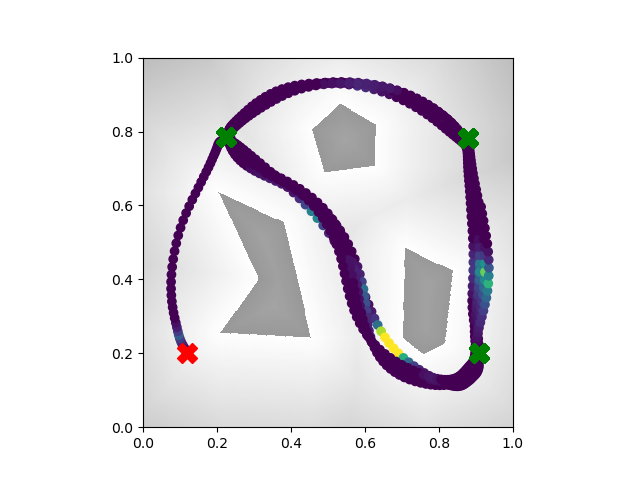
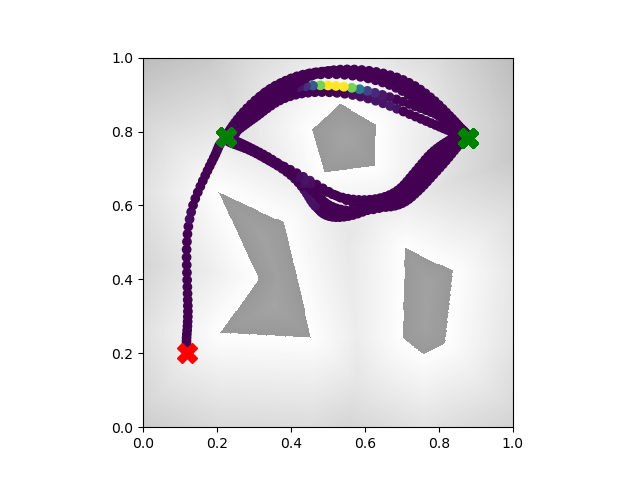
串行final

Changed region(s): [[0.25, 0.125, 0.7812, 0.8125]]

diff --git a/storm_kit/mpc/rollout/simple_reacher.py b/storm_kit/mpc/rollout/simple_reacher.py
@@ -196,8 +196,8 @@ class SimpleReacher(object):
         state_batch = state_dict['state_seq']
         #print(action_batch)
         # goal_state changed to 
-        # goal_state = self.goal_state.unsqueeze(0)
-        goal_state = mean_traj_greedy[-1,:self.n_dofs]# 可适当调节  @测试！ 20 horizon [15 20]区间测试 增加路径弹性 需要根据测试结果讨论清楚 
+        goal_state = self.goal_state.unsqueeze(0)
+        # goal_state = mean_traj_greedy[-1,:self.n_dofs]# 可适当调节  @测试！ 20 horizon [15 20]区间测试 增加路径弹性 需要根据测试结果讨论清楚 
         # * torch.cat((torch.zeros(10),torch.ones(10))).to(**self.tensor_args)
         # goal_state = mean_traj_greedy[ :,:self.n_dofs].unsqueeze(0)
         
@@ -212,7 +212,7 @@ class SimpleReacher(object):
         cost += vel_cost
         
         coll_cost = self.image_move_collision_cost.forward(state_batch[:,:,:2*self.n_dofs])
-        cost += coll_cost * 2.0
+        cost += coll_cost * 5.0
 
         bound_contraint= self.bound_cost.forward(state_batch[:,:,:self.n_dofs])
         cost += bound_contraint

diff --git a/storm_kit/mpc/control/control_base.py b/storm_kit/mpc/control/control_base.py
@@ -262,12 +262,9 @@ class Controller(ABC):
                     """
                     sensitive_trajectory = self.generate_sensitive_rollouts(state)
 
-                    self._update_sensitive_distribution(sensitive_trajectory) 
+                    self._update_distribution(sensitive_trajectory) 
                     self.mean_traj_sensi = self.get_mean_trajectory(state)
 
-                    # sensitive_trajectory = self.generate_sensitive_rollouts(state)
-                    # self._update_sensitive_distribution(sensitive_trajectory) 
-                    # self.mean_traj_sensi = self.get_mean_trajectory(state)
                     info['rollout_time'] += trajectory['rollout_time']
                     # check if converged
                     if self.check_convergence():

diff --git a/storm_kit/geom/sdf/world.py b/storm_kit/geom/sdf/world.py
@@ -672,12 +672,12 @@ class WorldMoveableImageCollision(WorldCollision):
         _,im = cv2.threshold(im,10,255,cv2.THRESH_BINARY)
         self.im = im
         shift = 3
-        self.movelist = np.float32([
-            [[1, 0, -shift], [0, 1, 0]],
-            [[1, 0,  shift], [0, 1, 0]]])
         # self.movelist = np.float32([
-        #     [[1, 0, 0], [0, 1, -shift]],
-        #     [[1, 0,  0], [0, 1, shift]]])
+        #     [[1, 0, -shift], [0, 1, 0]],
+        #     [[1, 0,  shift], [0, 1, 0]]])
+        self.movelist = np.float32([
+            [[1, 0, 0], [0, 1, -shift]],
+            [[1, 0,  0], [0, 1, shift]]])
         
         self.step_move = 20
         self.move_ind = 10

diff --git a/storm_kit/mpc/control/mppi.py b/storm_kit/mpc/control/mppi.py
@@ -251,10 +251,9 @@ class MPPI(OLGaussianMPC):
                 cov_update = torch.matmul(weighted_delta, weighted_delta.T)
             else:
                 raise ValueError('Unidentified covariance type in update_distribution')
-            if (self.cov_action.sum() < cov_update.sum()).item():
-                
-                self.cov_action = (1.0 - self.step_size_cov) * self.cov_action +\
-                    self.step_size_cov * cov_update
+            # if (self.cov_action.sum() < cov_update.sum()).item():
+            self.cov_action = (1.0 - self.step_size_cov) * self.cov_action +\
+                self.step_size_cov * cov_update
 
 
     def _shift(self, shift_steps):

diff --git a/examples/simple_reacher_class.py b/examples/simple_reacher_class.py
@@ -60,7 +60,7 @@ class holonomic_robot(Plotter):
         super().__init__()
 
         self.goal_list = [
-                [0.9098484848484849, 0.2006060606060608],
+                # [0.9098484848484849, 0.2006060606060608],
                 [0.8787878787878789, 0.7824675324675325], 
                 [0.2240259740259739, 0.7851731601731602]]        
         self.goal_state = self.goal_list[-1]
